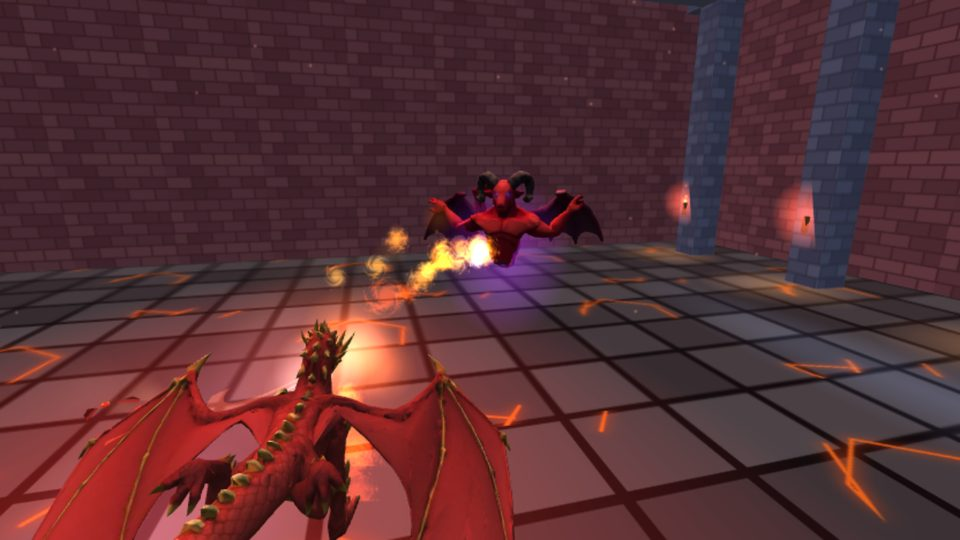
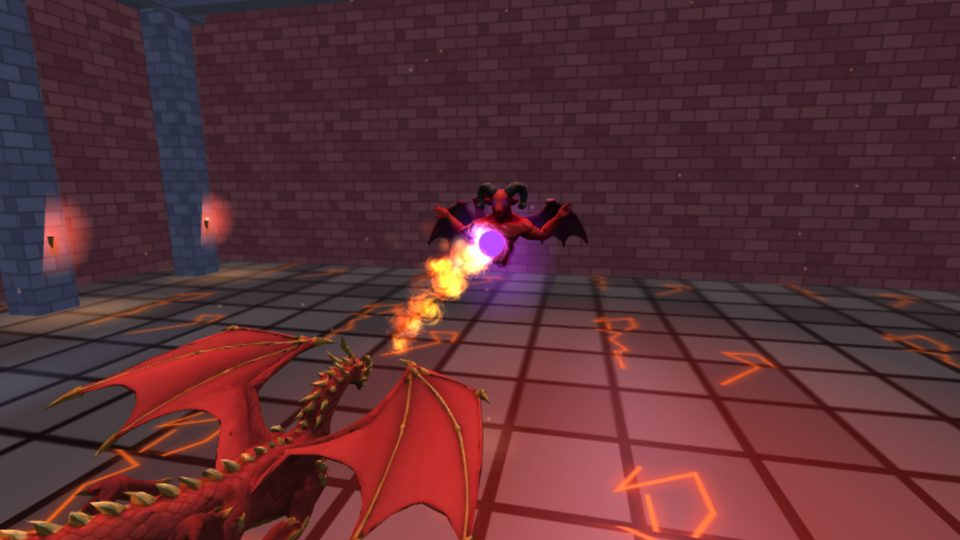
ゲームを更新

diff --git a/index.html b/index.html
@@ -819,7 +819,7 @@ const MODEL={},MIX=[];
 // 自分のキャラだけ別のモデルを使う時の対応（ワイバーン＝緑の方）。読めなかった時は元のモデルにもどる
 const PMODEL={wyvern:'wyvern2'};
 // 3Dモデルの版。モデルを作り直したら数字を変える（古い版がブラウザに残らないように）
-const ASSET_V='1116zl';let LOADED=0,LOADN=0,READY=false;
+const ASSET_V='1116zm';let LOADED=0,LOADN=0,READY=false;
 function loadStep(){LOADED++;const k=Math.round(LOADED/Math.max(1,LOADN)*100)+'%';const b=$('ldp');if(b)b.style.width=k;const n=$('ldn');if(n)n.textContent=k;}
 function loadDone(){if(READY)return;READY=true;$('title').classList.add('ready');$('press').textContent='クリック／タップではじめる';}
 async function loadModels(){try{await loadModels0();}finally{loadDone();}}
@@ -2997,7 +2997,7 @@ function addEnemy(type,x,z,y,o={}){
   const e={type,mesh:m,dr,hp:s.hp*(EASY?(s.boss?0.42:0.5):(s.boss?0.62:0.75)),maxHp:s.hp*(EASY?(s.boss?0.42:0.5):(s.boss?0.62:0.75)),r:s.r,hc:s.hc,val:s.val,dmg:s.dmg,fly:!!s.fly,boss:s.boss,t:rnd(0,5),cd:rnd(1,3),vy:0,vel:new V3(),cp:new V3(),
     seed:rnd(0,9),hx:0,hz:0,lx:0,lz:0,dvx:0,dvz:0,mv:'run',mt:1.5,state:'chase',ang:rnd(0,6.3),sum:8,met:6,st:0,sub:0,cnt:0,hitT:0,flyT:0,dodgeCd:2,
     thrower:type==='soldier'&&Math.random()<0.35,dashSeen:0,dead:false,perch:!!o.perch,bld:o.bld||null,inv:false,guard:false};
-  EN.push(e);if(type==='bigslime')e.sc=8.8;{const z=o.model?0:{ship:1.5,battleship:1.4,airship:1.3,bigairship:1.4,hero:0.65,priest:0.7,goblin:0.72,drak:2.86,orccart:0.8,orctank:0.65}[type];if(z){e.sc=z;e.r*=z;e.hc*=z;}}if(s.boss&&state==='play'){cutin(PTE[type]||s.ic,s.boss.replace(/^\S+\s/,''),'があらわれた！');TS=0.3;tsT=0.9;shake(0.5);document.body.classList.add('lbx');bossZoom(e);}return e;
+  EN.push(e);if(type==='bigslime')e.sc=8.8;{const z=o.model?0:{ship:1.5,battleship:1.4,airship:1.3,bigairship:1.4,hero:0.65,priest:0.7,goblin:0.72,drak:2.86,orccart:0.8,orctank:0.65,kraken:1.05}[type];if(z){e.sc=z;e.r*=z;e.hc*=z;}}if(s.boss&&state==='play'){cutin(PTE[type]||s.ic,s.boss.replace(/^\S+\s/,''),'があらわれた！');TS=0.3;tsT=0.9;shake(0.5);document.body.classList.add('lbx');bossZoom(e);}return e;
 }
 function hitEnemy(e,n){if(e.dead)return;
   if(e.inv||BTK.on){burst(cpos(e),3,GOLD,2,8,0.2);sfx('clang',e.mesh.position,0.5);return;}
@@ -3259,20 +3259,20 @@ function updEnemies(dt){btkTick(dt);wkClipTick(dt);s3Tick(dt);
       e.met-=dt;if(e.met<=0&&hd<(e.big?(sg===3?170:130):50*(e.sc||1.1)/1.1)){e.met=sg===3?2.2:4;shock(p,0xd8c090,e.big?130:50*(e.sc||1.1)/1.1);if(e.big){shock(p,0xff7040,80);ono(cpos(e),'ズシィン！！','#ffd23a',70);smoke(p,12,16,2.4,0x9a8a68,30);}shake(0.8);sfx('boom',p,0.7);if(P.pos.y-p.y<(e.big?75:25*(e.sc||1.1)/1.1))hurt(26);}
       if(half&&!e.p2){e.p2=1;for(let k=0;k<6;k++)addEnemy('soldier',p.x+(e.big?rnd(-70,70):rnd(-25,25)),p.z+(e.big?rnd(-70,70):rnd(-25,25)));}
       break;}
-    case 'elder':case 'dking':{e.st-=dt;if(e.rking)kingStep(e,dt);if(half&&!e.p2){e.p2=1;if(!e.rking){say('古の竜','面白い…。千年ぶりに、本気を出そう。');sfx('roar',p);}}
-      if(e.state==='chase'){e.ang+=dt*0.3;tmp2.set(P.pos.x+Math.cos(e.ang)*100,P.pos.y+28+Math.sin(e.t*0.5)*12,P.pos.z+Math.sin(e.ang)*100);fly(e,tmp2,40,dt,1);e.mesh.rotation.y=Math.atan2(e.vel.x,e.vel.z);
+    case 'elder':case 'dking':{const KQ=e.rking?2.6:1;e.st-=dt;if(e.rking)kingStep(e,dt);if(half&&!e.p2){e.p2=1;if(!e.rking){say('古の竜','面白い…。千年ぶりに、本気を出そう。');sfx('roar',p);}}
+      if(e.state==='chase'){e.ang+=dt*0.3;tmp2.set(P.pos.x+Math.cos(e.ang)*100*KQ,P.pos.y+28*KQ+Math.sin(e.t*0.5)*12*KQ,P.pos.z+Math.sin(e.ang)*100*KQ);fly(e,tmp2,40*(e.rking?1.7:1),dt,1);e.mesh.rotation.y=Math.atan2(e.vel.x,e.vel.z);
         if(e.cd<=0){const r=Math.random();
           if(e.rking&&half&&Math.random()<0.34){e.state='ring';e.st=1.2;banner('🔥 炎の輪が広がる！ 上か下へ、よけろ',1.8);sfx('roar',p,0.7);}else if(r<0.4){e.state='breath';e.st=half?3.2:2.6;e.sub=0;}
           else if(r<0.7){e.state='meteor';e.st=1.2;banner('🔥 炎の雨が来る！ 動いてよけろ',1.6);sfx('roar',p,0.6);}
-          else{e.state='dive';e.st=1.8;e.done=false;e.vel.copy(tmp.subVectors(P.pos,p).normalize().multiplyScalar(110));sfx('roar',p,0.7);}}}
+          else{e.state='dive';e.st=1.8;e.done=false;e.vel.copy(tmp.subVectors(P.pos,p).normalize().multiplyScalar(e.rking?220:110));sfx('roar',p,0.7);}}}
       else if(e.state==='breath'){fly(e,tmp2.copy(p),4,dt);faceP(e);e.sub-=dt;
         if(e.sub<=0){e.sub=half?0.04:0.06;const m=p.clone().addScaledVector(tmp.subVectors(P.pos,p).normalize(),18*(e.sc||1));const v=tmp.subVectors(P.pos,m).normalize();v.x+=rnd(-.07,.07);v.y+=rnd(-.07,.07);v.z+=rnd(-.07,.07);
-          shoot(m,v.normalize().multiplyScalar(120),{mat:MAT.big,size:2.2,r:2.6,dmg:8,life:3,trail:FIRE,col:FIRE});sfx('fire',p,0.7);}
+          shoot(m,v.normalize().multiplyScalar(120),{mat:MAT.big,size:2.2*(e.rking?1.8:1),r:2.6,dmg:8,life:e.rking?4:3,trail:FIRE,col:FIRE});sfx('fire',p,0.7);}
         if(e.st<=0){e.state='chase';e.cd=half?1.8:2.8;}}
       else if(e.state==='ring'){fly(e,tmp2.copy(p),4,dt);faceP(e);if(e.st<=0){kingRing(e);e.state='chase';e.cd=1.8;}}
       else if(e.state==='meteor'){fly(e,tmp2.copy(p),4,dt);faceP(e);
         if(e.st<=0){for(let k=0;k<(half?12:8)+(e.rking?(e.rage?8:4):0);k++){const f=new V3(P.pos.x+rnd(-45,45),P.pos.y+100,P.pos.z+rnd(-45,45));shoot(f,new V3(rnd(-4,4),-70,rnd(-4,4)),{mat:MAT.big,size:2.6,r:3,splash:11,dmg:16,life:5,trail:FIRE,col:FIRE});}e.state='chase';e.cd=half?2:3;}}
-      else{p.addScaledVector(e.vel,dt);e.mesh.rotation.y=Math.atan2(e.vel.x,e.vel.z);if(Math.random()<0.7)burst(p,2,FIRE,6,6,0.4);const gh=floorAt(p.x,p.z)+14;if(p.y<gh)p.y=gh;
+      else{p.addScaledVector(e.vel,dt);e.mesh.rotation.y=Math.atan2(e.vel.x,e.vel.z);if(Math.random()<0.7)burst(p,2,FIRE,6,6,0.4);const gh=floorAt(p.x,p.z)+14*KQ;if(p.y<gh)p.y=gh;
         if(!e.done&&d3<e.r+6){e.done=true;hurt(e.dmg);shake(1);}if(e.st<=0){e.state='chase';e.cd=half?1.8:2.8;}}
       if(d3<e.r+3)hurt(e.dmg*0.3*dt,true);break;}
     case 'ship':{floatOn(e,dt,P.pos.x+Math.cos(e.ang)*90,P.pos.z+Math.sin(e.ang)*90,13);e.ang+=dt*0.12;
@@ -3318,7 +3318,7 @@ function updEnemies(dt){btkTick(dt);wkClipTick(dt);s3Tick(dt);
         if(p.y<WATER-4&&e.vy<0){e.state='chase';e.cd=rnd(2.5,4);smoke(tmp.set(p.x,WATER+1,p.z),8,6,2,0xffffff,5);}}
       else{floatOn(e,dt,P.pos.x+Math.cos(e.ang)*50,P.pos.z+Math.sin(e.ang)*50,26,-4);
         if(e.cd<=0&&hd<160){if(Math.random()<0.5&&hd<90){e.state='lunge';e.done=false;const T=1.1;e.lx=dx/T;e.lz=dz/T;e.vy=((P.pos.y-p.y)+0.5*40*T*T)/T;sfx('roar',p,0.4);smoke(p,6,5,2,0xffffff,4);}
-          else{e.cd=rnd(2.5,3.5);const f=cpos(e).clone();f.y+=6;for(const a2 of [-0.15,0,0.15]){const v=tmp.subVectors(P.pos,f).normalize().applyAxisAngle(new V3(0,1,0),a2);shoot(f,v.multiplyScalar(80),{mat:MAT.water,size:1.2,r:1.6,dmg:9,life:3,trail:WATC,col:WATC});}sfx('small',p,0.5);}}}
+          else{e.cd=rnd(2.5,3.5);const f=cpos(e).clone();f.y+=(e.s7==='levi'?30*(e.sc||1)-e.hc:6);for(const a2 of [-0.15,0,0.15]){const v=tmp.subVectors(P.pos,f).normalize().applyAxisAngle(new V3(0,1,0),a2);shoot(f,v.multiplyScalar(80),{mat:MAT.water,size:1.2,r:1.6,dmg:9,life:3,trail:WATC,col:WATC});}sfx('small',p,0.5);}}}
       break;}
     case 'rival':case 'rdrake':case 'gkeep':{const dr=e.dr;e.st-=dt;if(e.gOf&&e.gOf.dead){killEnemy(e,true);break;}
       if(half&&!e.p2){e.p2=1;if(e.type==='rival'){say('ライバル','やるじゃないか…本気でいくぞ！');sfx('roar',p);}}
@@ -3785,7 +3785,7 @@ const STAGES=[
       s7Kraken();s7Serps(2);s7Sharks(3);s7Fish(8);sfx('roar');}},
     {name:'リヴァイアサン',msg:'🐉 渦の主、リヴァイアサンが、S字に立ち上がる！',get mood(){return S7MD.b;},go(){
       const [x,z]=s7WaterPos(60,110);const b=s7Add('levi',x,z);
-      s7Big(b,{nm:'リヴァイアサン',ic:'🐉',hp:6000,sc:1.4,val:2200,dmg:1.2,die:'グオォォ……（うずの底へ、ゆっくりしずんでいった）'});
+      s7Big(b,{nm:'リヴァイアサン',ic:'🐉',hp:6000,sc:0.8,val:2200,dmg:1.2,die:'グオォォ……（うずの底へ、ゆっくりしずんでいった）'});
       s7Sharks(3);s7Fish(8);s7Crabs(1);sfx('roar');}}]},
   {key:'seaking',ch:'最終章',title:'海王',place:'海王の宮殿の真上',
    ter:{amp:0.9,ox:700,oz:-250,sea:true,flats:[[0,120,40,3,1],[0,-150,58,3,1],[-150,-50,28,4,1],[150,-60,28,4,1]],dirt:[],grass:0x5a8a62,hill:0x4a7a56,sand:0xcfc4a2,rock:0x6a7078,water:0x174a6e,trees:30,rocks:20,trunk:0x4a3a2c,leaf:0x2a5a3a,rockC:0x8a8a8a,start:[0,120]},
@@ -3963,7 +3963,7 @@ function s5Spawn(kind,x,z,y){let e;const rig=id=>MODEL[id]?id:(MODEL.rival?'riva
   else if(kind==='wygr'){const gm=!!MODEL.wyvern2;e=addEnemy('rdrake',x,z,y,{model:gm?'wyvern2':'wyvern'});e.wyv=1;e.c2=1;e.sc=0.78;e.r=6.2;e.hp=e.maxHp=e.maxHp*0.55;e.dmg=12;e.mesh.rotation.order='YXZ';if(!gm)wyvTint(e.mesh);}
   else if(kind==='wybl'||kind==='guard'){e=addEnemy('rdrake',x,z,y,{model:'wyvern'});e.c2=1;e.sc=0.68;e.r=5.4;e.hp=e.maxHp=e.maxHp*(kind==='guard'?0.5:0.4);e.dmg=kind==='guard'?13:11;if(kind==='guard')s5Tint(e.mesh,0.42,0.38,0.5);}
   else if(kind==='earth'){e=addEnemy('gdrake',x,z,undefined,{model:'ground'});e.sc=1.15;e.r=ST.gdrake.r*1.15;s5Tint(e.mesh,0.62,0.66,0.8);}
-  else if(kind==='king'){e=addEnemy('dking',x,z,y,{model:MODEL.dragonking?'dragonking':'elder'});e.rking=1;e.sc=1.5;e.r=ST.dking.r*1.5;e.hc=0;e.mesh.rotation.order='YXZ';}
+  else if(kind==='king'){e=addEnemy('dking',x,z,y,{model:MODEL.dragonking?'dragonking':'elder'});e.rking=1;e.sc=4.0;e.r=ST.dking.r*4.0;e.hc=0;e.mesh.rotation.order='YXZ';}
   if(e)s5Mark(e,kind==='king'?0xffa030:null);return e;}
 // 竜王：体力が3分の2で親衛を呼ぶ／3分の1で本気（動きが速くなる）。親衛は、竜王が倒れたら消える
 function kingStep(e,dt){const p=e.mesh.position,f=e.hp/e.maxHp;
@@ -3971,8 +3971,8 @@ function kingStep(e,dt){const p=e.mesh.position,f=e.hp/e.maxHp;
   if(!e.k3&&f<0.33){e.k3=1;e.rage=1;talk([['竜王','ゆるさぬ……！ 空ごと、焼きはらってくれる！']]);banner('👑 竜王が、本気を出した！',2.2);sfx('roar',p,1);shake(0.6);}
   if(e.rage&&e.cd>0.9)e.cd-=dt*0.5;}
 // 炎の輪：竜王から、自分の高さに、まわりへ炎の玉がひろがる（上か下へ逃げるか、すき間をくぐる）
-function kingRing(e){const p=e.mesh.position,n=e.rage?18:14,y=Math.max(P.pos.y,floorAt(p.x,p.z)+6),a0=rnd(0,6.28);
-  for(let k=0;k<n;k++){const a=a0+k/n*6.2832;shoot(new V3(p.x,y,p.z),new V3(Math.cos(a)*55,0,Math.sin(a)*55),{mat:MAT.big,size:2.4,r:2.8,dmg:11,life:3.4,trail:FIRE,col:FIRE});}
+function kingRing(e){const p=e.mesh.position,n=e.rage?36:28,y=Math.max(P.pos.y,floorAt(p.x,p.z)+6),a0=rnd(0,6.28);
+  for(let k=0;k<n;k++){const a=a0+k/n*6.2832;shoot(new V3(p.x,y,p.z),new V3(Math.cos(a)*110,0,Math.sin(a)*110),{mat:MAT.big,size:2.4*1.6,r:2.8,dmg:11,life:4.4,trail:FIRE,col:FIRE});}
   sfx('boom',p,0.8);shake(0.3);}
 // 世界：竜の墓場（あばら骨・どくろ・黒い遺跡）
 function buildGrave(T){const bone=mat(0xe2dac4),dark=mat(0x2a2630);
@@ -5022,34 +5022,34 @@ function s7Crabs(n){for(let i=0;i<s7N(n);i++){const fs=TER.flats.slice(1,4),f=fs
 function s7Kraken(){const [x,z]=s7WaterPos(50,80);const k=s7E(addEnemy('kraken',x,z));k.said=1;k.die='ゴボ……ゴボボ……';return k;}
 // ---- 海王の動き：水の柱・三つ又の槍・大波。体力が半分で軍勢をよび、攻めが速くなる ----
 function s7King(e,dt,p,dx,dz,hd,d3,half){
-  const BASE=WATER-16;
-  if(!e.k0){e.k0=1;e.said=1;e.state='rise';e.st=2.2;e.cd=2;e.inv=true;p.y=BASE-44;e.pil=[];e.wv=null;e.nat=0;shock(tmp.set(p.x,WATER,p.z),0xffffff,30);}
+  const SK=e.sc||1,KS=1+(SK-1)*0.5,BASE=WATER-16*SK;
+  if(!e.k0){e.k0=1;e.said=1;e.state='rise';e.st=2.2;e.cd=2;e.inv=true;p.y=BASE-44*SK;e.pil=[];e.wv=null;e.nat=0;shock(tmp.set(p.x,WATER,p.z),0xffffff,30);}
   e.st-=dt;faceP(e);e.mesh.rotation.z=Math.sin(e.t*1.1)*0.035;
   if(e.state==='rise'){p.y+=(BASE-p.y)*Math.min(1,dt*2.4);if(Math.random()<0.7)smoke(tmp.set(p.x+rnd(-10,10),WATER+1,p.z+rnd(-10,10)),1,7,2,0xffffff,4);
     if(e.st<=0){e.state='up';e.st=half?7:9;e.inv=false;e.cd=1.6;shock(tmp.set(p.x,WATER,p.z),0xffffff,36);sfx('roar',p,0.8);shake(0.5);bubble(e,e.k1?'まだ終わらぬ！':'余の海を、荒らすとは！','boss',2.4);e.k1=1;}return;}
-  if(e.state==='down'){p.y-=dt*24;if(e.st<=0){const [x,z]=s7WaterPos(C.fly?75:55,C.fly?115:90);p.x=x;p.z=z;p.y=BASE-44;e.state='rise';e.st=1.8;e.cd=1;}return;}
+  if(e.state==='down'){p.y-=dt*24*SK;if(e.st<=0){const [x,z]=s7WaterPos(C.fly?140:110,C.fly?190:150);p.x=x;p.z=z;p.y=BASE-44*SK;e.state='rise';e.st=1.8;e.cd=1;}return;}
   p.y+=(BASE-p.y)*Math.min(1,dt*3);
   if(half&&!e.p2){e.p2=1;e.cd=2.6;bubble(e,'わが軍勢よ、来い！','boss',2.4);sfx('roar',p,0.8);shake(0.6);shock(tmp.set(p.x,WATER,p.z),0xffd860,46);
     for(let k=0;k<s7N(8);k++){const [x,z]=s7WaterPos(40,110);s7Add('fish',x,z,WATER+4);}}
   // 水の柱：赤い輪が出て、少しあとに水がふき上がる
   for(let i=e.pil.length-1;i>=0;i--){const q=e.pil[i];q.t-=dt;if(q.t>0)continue;e.pil.splice(i,1);
-    const g=new V3(q.x,floorAt(q.x,q.z),q.z);shock(g,0xa0e0ff,18);smoke(g,10,6,2,0xffffff,8);burst(g,36,WATC,5,12,1.0,40);shake(0.35);sfx('boom',g,0.5);ono(g,'ドバァッ！','#9ae6ff',48);
-    if(Math.hypot(P.pos.x-g.x,P.pos.z-g.z)<13&&P.pos.y-g.y<34)hurt(e.dmg);}
+    const g=new V3(q.x,floorAt(q.x,q.z),q.z);shock(g,0xa0e0ff,18*KS);smoke(g,10,6,2,0xffffff,8*KS);burst(g,36,WATC,5,12*KS,1.0,40);shake(0.35);sfx('boom',g,0.5);ono(g,'ドバァッ！','#9ae6ff',48);
+    if(Math.hypot(P.pos.x-g.x,P.pos.z-g.z)<13*KS&&P.pos.y-g.y<34*KS)hurt(e.dmg);}
   // 大波：海面を輪になって広がる。地面ぎわにいると当たる（高く飛ぶか、ジャンプでかわせる）
   if(e.wv){const w=e.wv;w.r+=dt*(half?62:52);w.m.scale.setScalar(w.r);w.m.material.opacity=Math.max(0,0.85-w.r/190);
     if(Math.random()<dt*30)for(let k=0;k<6;k++){const a=rnd(0,6.283);burst(tmp.set(p.x+Math.cos(a)*w.r,WATER+1,p.z+Math.sin(a)*w.r),2,[0xffffff,0xcfe8ff],4,10,0.5);}
     if(!w.hit&&Math.abs(Math.hypot(P.pos.x-p.x,P.pos.z-p.z)-w.r)<6&&P.pos.y<floorAt(P.pos.x,P.pos.z)+C.gOff+8){w.hit=1;hurt(e.dmg*0.9);ono(P.pos.clone().add(new V3(0,5,0)),'ザッバーン！','#9ae6ff',52);sfx('crash',P.pos,0.6);}
-    if(w.r>160){scene.remove(w.m);e.wv=null;}}
+    if(w.r>160+8*(SK-1)){scene.remove(w.m);e.wv=null;}}
   if(e.cd<=0&&!e.pil.length&&!e.wv){
     const kd=(half?['pil','spear','wave','pil','spear','wave']:['pil','spear','wave','spear','pil','spear'])[e.nat++%6];
     if(kd==='pil'){const n=half?6:4;bubble(e,'水よ、立て！','boss',1.6);
-      for(let k=0;k<n;k++){const tx=P.pos.x+(k?rnd(-26,26):P.vel.x*0.7),tz=P.pos.z+(k?rnd(-26,26):P.vel.z*0.7);e.pil.push({x:tx,z:tz,t:1.1+k*0.14});shock(tmp.set(tx,floorAt(tx,tz),tz),0xff3030,13);}
+      for(let k=0;k<n;k++){const tx=P.pos.x+(k?rnd(-26*KS,26*KS):P.vel.x*0.7),tz=P.pos.z+(k?rnd(-26*KS,26*KS):P.vel.z*0.7);e.pil.push({x:tx,z:tz,t:1.1+k*0.14});shock(tmp.set(tx,floorAt(tx,tz),tz),0xff3030,13*KS);}
       e.cd=(half?2.0:2.8)+1.2;}
-    else if(kd==='spear'){bubble(e,'三つ又の槍！','boss',1.4);const f=cpos(e).clone();f.y+=12;const base=tmp.copy(P.pos).addScaledVector(P.vel,0.5).sub(f).normalize(),n=half?5:3;
-      for(let k=0;k<n;k++){const a2=(k-(n-1)/2)*0.17;shoot(f,base.clone().applyAxisAngle(new V3(0,1,0),a2).multiplyScalar(88),{geo:'arrow',mat:S7GOLD,size:2.8,r:2.6,dmg:11,life:3.6,col:[0xffd860,0xfff2b0]});}
+    else if(kd==='spear'){bubble(e,'三つ又の槍！','boss',1.4);const f=cpos(e).clone();f.y+=12*SK;const base=tmp.copy(P.pos).addScaledVector(P.vel,0.5).sub(f).normalize(),n=half?5:3;
+      for(let k=0;k<n;k++){const a2=(k-(n-1)/2)*0.17;shoot(f,base.clone().applyAxisAngle(new V3(0,1,0),a2).multiplyScalar(88),{geo:'arrow',mat:S7GOLD,size:2.8*KS,r:2.6*KS,dmg:11,life:3.6,col:[0xffd860,0xfff2b0]});}
       sfx('small',p,0.7);e.cd=half?1.8:2.6;}
     else{bubble(e,'大波よ！','boss',1.6);const m=new THREE.Mesh(new THREE.RingGeometry(0.94,1,72),new THREE.MeshBasicMaterial({color:0xcfeeff,transparent:true,opacity:0.85,side:THREE.DoubleSide,depthWrite:false}));
-      m.rotation.x=-Math.PI/2;m.position.set(p.x,WATER+0.8,p.z);m.scale.setScalar(8);scene.add(m);e.wv={r:8,m,hit:0};sfx('roar',p,0.5);shake(0.4);e.cd=(half?2.0:2.8)+2.5;}}
+      m.rotation.x=-Math.PI/2;m.position.set(p.x,WATER+0.8,p.z);m.scale.setScalar(8*SK);scene.add(m);e.wv={r:8*SK,m,hit:0};sfx('roar',p,0.5);shake(0.4);e.cd=(half?2.0:2.8)+2.5;}}
   if(e.st<=0&&!e.pil.length&&!e.wv){e.state='down';e.st=1.5;e.inv=true;smoke(tmp.set(p.x,WATER+1,p.z),12,8,2,0xffffff,8);}
   if(d3<e.r+6)hurt(e.dmg*dt,true);}
 // ---- 景色：さんごのかたまり・うずまき・難破船・さんごの柱 ----
@@ -5091,7 +5091,7 @@ const S7FIT={fish:{x:5.3,y:4.8,z:1.5,b:0},fishE:{x:5.3,y:4.8,z:1.5,b:0},fishbow:
 for(const k of Object.keys(S7FIT)){const f=S7FIT[k],orig=S7MK[k];
   S7MK[k]=()=>{const o=orig();if(!MODEL[S7K[k].mdl])return o;
     const g=new THREE.Group(),bx=new THREE.Mesh(new THREE.BoxGeometry(f.x,f.y,f.z),new THREE.MeshBasicMaterial({visible:false}));bx.position.y=f.b+f.y/2;g.add(bx);g.userData=o.userData;return g;};}
-S7K.king.r=18;S7K.king.hc=26;S7K.crab.hc=5;
+S7K.king.r=18;S7K.king.hc=26;S7K.king.sc=2.3;S7K.crab.hc=5;
 
 // ---- 海蛇（シナリオ7用の「serp」）：骨の無いモデルなので、見えない枠で大きさを決める ----
 S7K.serp={base:'seaserpent',hp:230,r:8,hc:5,val:200,dmg:16,mdl:'seaserpent'};
@@ -5134,10 +5134,10 @@ S7K.fish.hp=95;S7K.fishbow.hp=85;S7K.fishE.hp=350;S7K.shark.hp=225;S7K.crab.hp=4
   W('deepsea')[0].go=function(){s7Sharks(8);s7Serps(4);s7Fish(12);s7Bows(5);};
   W('deepsea')[1].go=function(){s7Kraken();s7Serps(5);s7Sharks(6);s7Fish(12);s7Bows(4);s7Crabs(1);sfx('roar');};
   W('deepsea')[2].go=function(){const [x,z]=s7WaterPos(60,110);const b=s7Add('levi',x,z);
-    s7Big(b,{nm:'リヴァイアサン',ic:'🐉',hp:5000,sc:1.4,val:2200,dmg:1.2,die:'グオォォ……（うずの底へ、ゆっくりしずんでいった）'});s7Serps(4);s7Sharks(5);s7Fish(12);s7Bows(4);s7Crabs(2);sfx('roar');};
+    s7Big(b,{nm:'リヴァイアサン',ic:'🐉',hp:5000,sc:0.8,val:2200,dmg:1.2,die:'グオォォ……（うずの底へ、ゆっくりしずんでいった）'});s7Serps(4);s7Sharks(5);s7Fish(12);s7Bows(4);s7Crabs(2);sfx('roar');};
   W('seaking')[0].go=function(){s7Fish(8,'fishE');s7Fish(10);s7Bows(6);s7Sharks(4);s7Serps(2);};
   W('seaking')[1].go=function(){s7Crabs(3);s7Fish(5,'fishE');s7Fish(10);s7Bows(4);s7Sharks(6);s7Serps(3);};
-  W('seaking')[2].go=function(){const [x,z]=s7WaterPos(C.fly?75:60,C.fly?100:85);s7Add('king',x,z);s7Cut('海王','🔱');s7Fish(12);s7Bows(4);s7Sharks(5);s7Serps(3);sfx('roar');};}
+  W('seaking')[2].go=function(){const [x,z]=s7WaterPos(C.fly?140:120,C.fly?170:150);s7Add('king',x,z);s7Cut('海王','🔱');s7Fish(12);s7Bows(4);s7Sharks(5);s7Serps(3);sfx('roar');};}
 
 // ---- 景色の置き物（scn7_fit2.py）：モデルがある時だけ置く ----
 // id のモデルを、高さ h に合わせ、足もとを (x,y,z) に置く。正面は +z（rot で回す）。当たり無し・影なし
@@ -5530,7 +5530,7 @@ buildWorld=function(L){const k=(STAGES[stage]||{}).key;
 const B2=[];const sp2=new V3();
 function scr(v){sp2.copy(v).project(cam);if(sp2.z>1)return null;return [(sp2.x+1)/2*innerWidth,(1-sp2.y)/2*innerHeight];}
 const _hb=new THREE.Box3();
-function headTop(e){try{_hb.setFromObject(e.mesh);const h=_hb.max.y-e.mesh.position.y;if(isFinite(h)&&h>0.5&&h<80)return h+0.3;}catch(_){}return ((e.r||2)+(e.hc||0)+3)*(e.sc||1);}
+function headTop(e){try{_hb.setFromObject(e.mesh);const h=_hb.max.y-e.mesh.position.y;if(isFinite(h)&&h>0.5&&h<((e.s7==='king'||e.rking)?260:80))return h+0.3;}catch(_){}return ((e.r||2)+(e.hc||0)+3)*(e.sc||1);}
 function bubble(e,t,kind,life=1.8){if(state!=='play')return;if(B2.filter(b=>b.bub).length>=5){const o=B2.find(b=>b.bub);o.life=0;}
   const d=document.createElement('div');d.className='bub '+(kind||'');d.textContent=t;$('fx2d').appendChild(d);B2.push({d,e,bub:1,life,top:headTop(e),tt:0.4});}
 function ono(pos,t,col,size){if(state!=='play')return;const q=scr(pos);if(!q)return;
